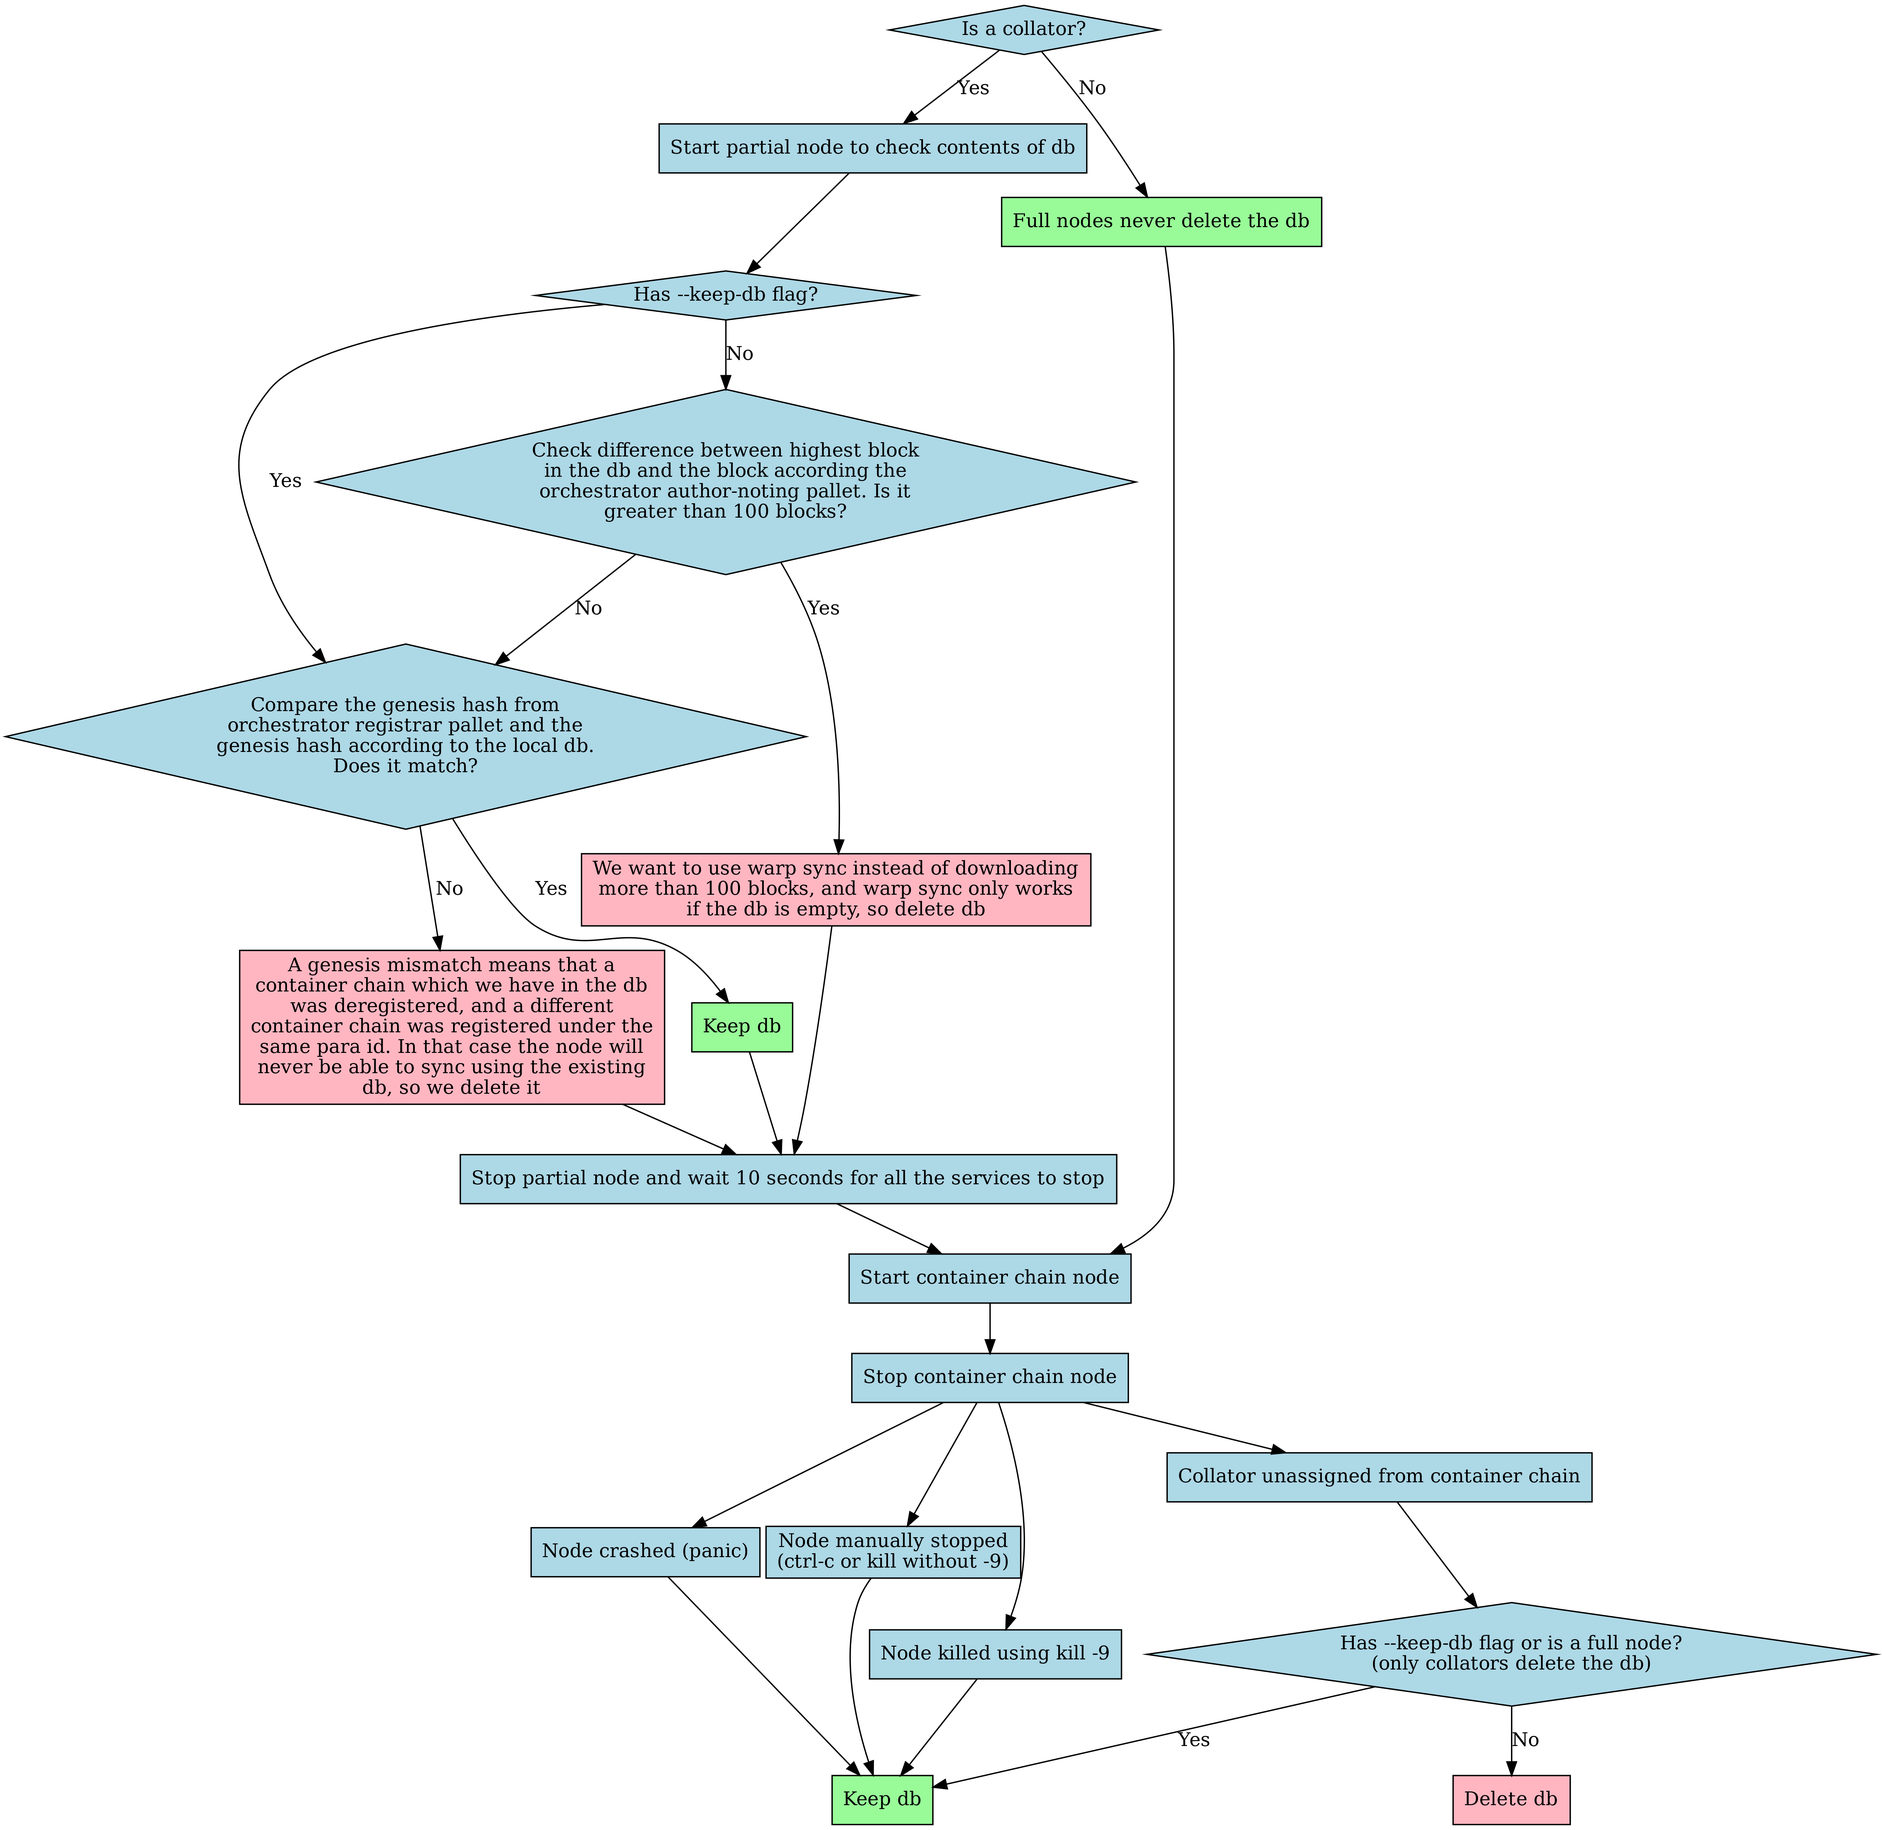
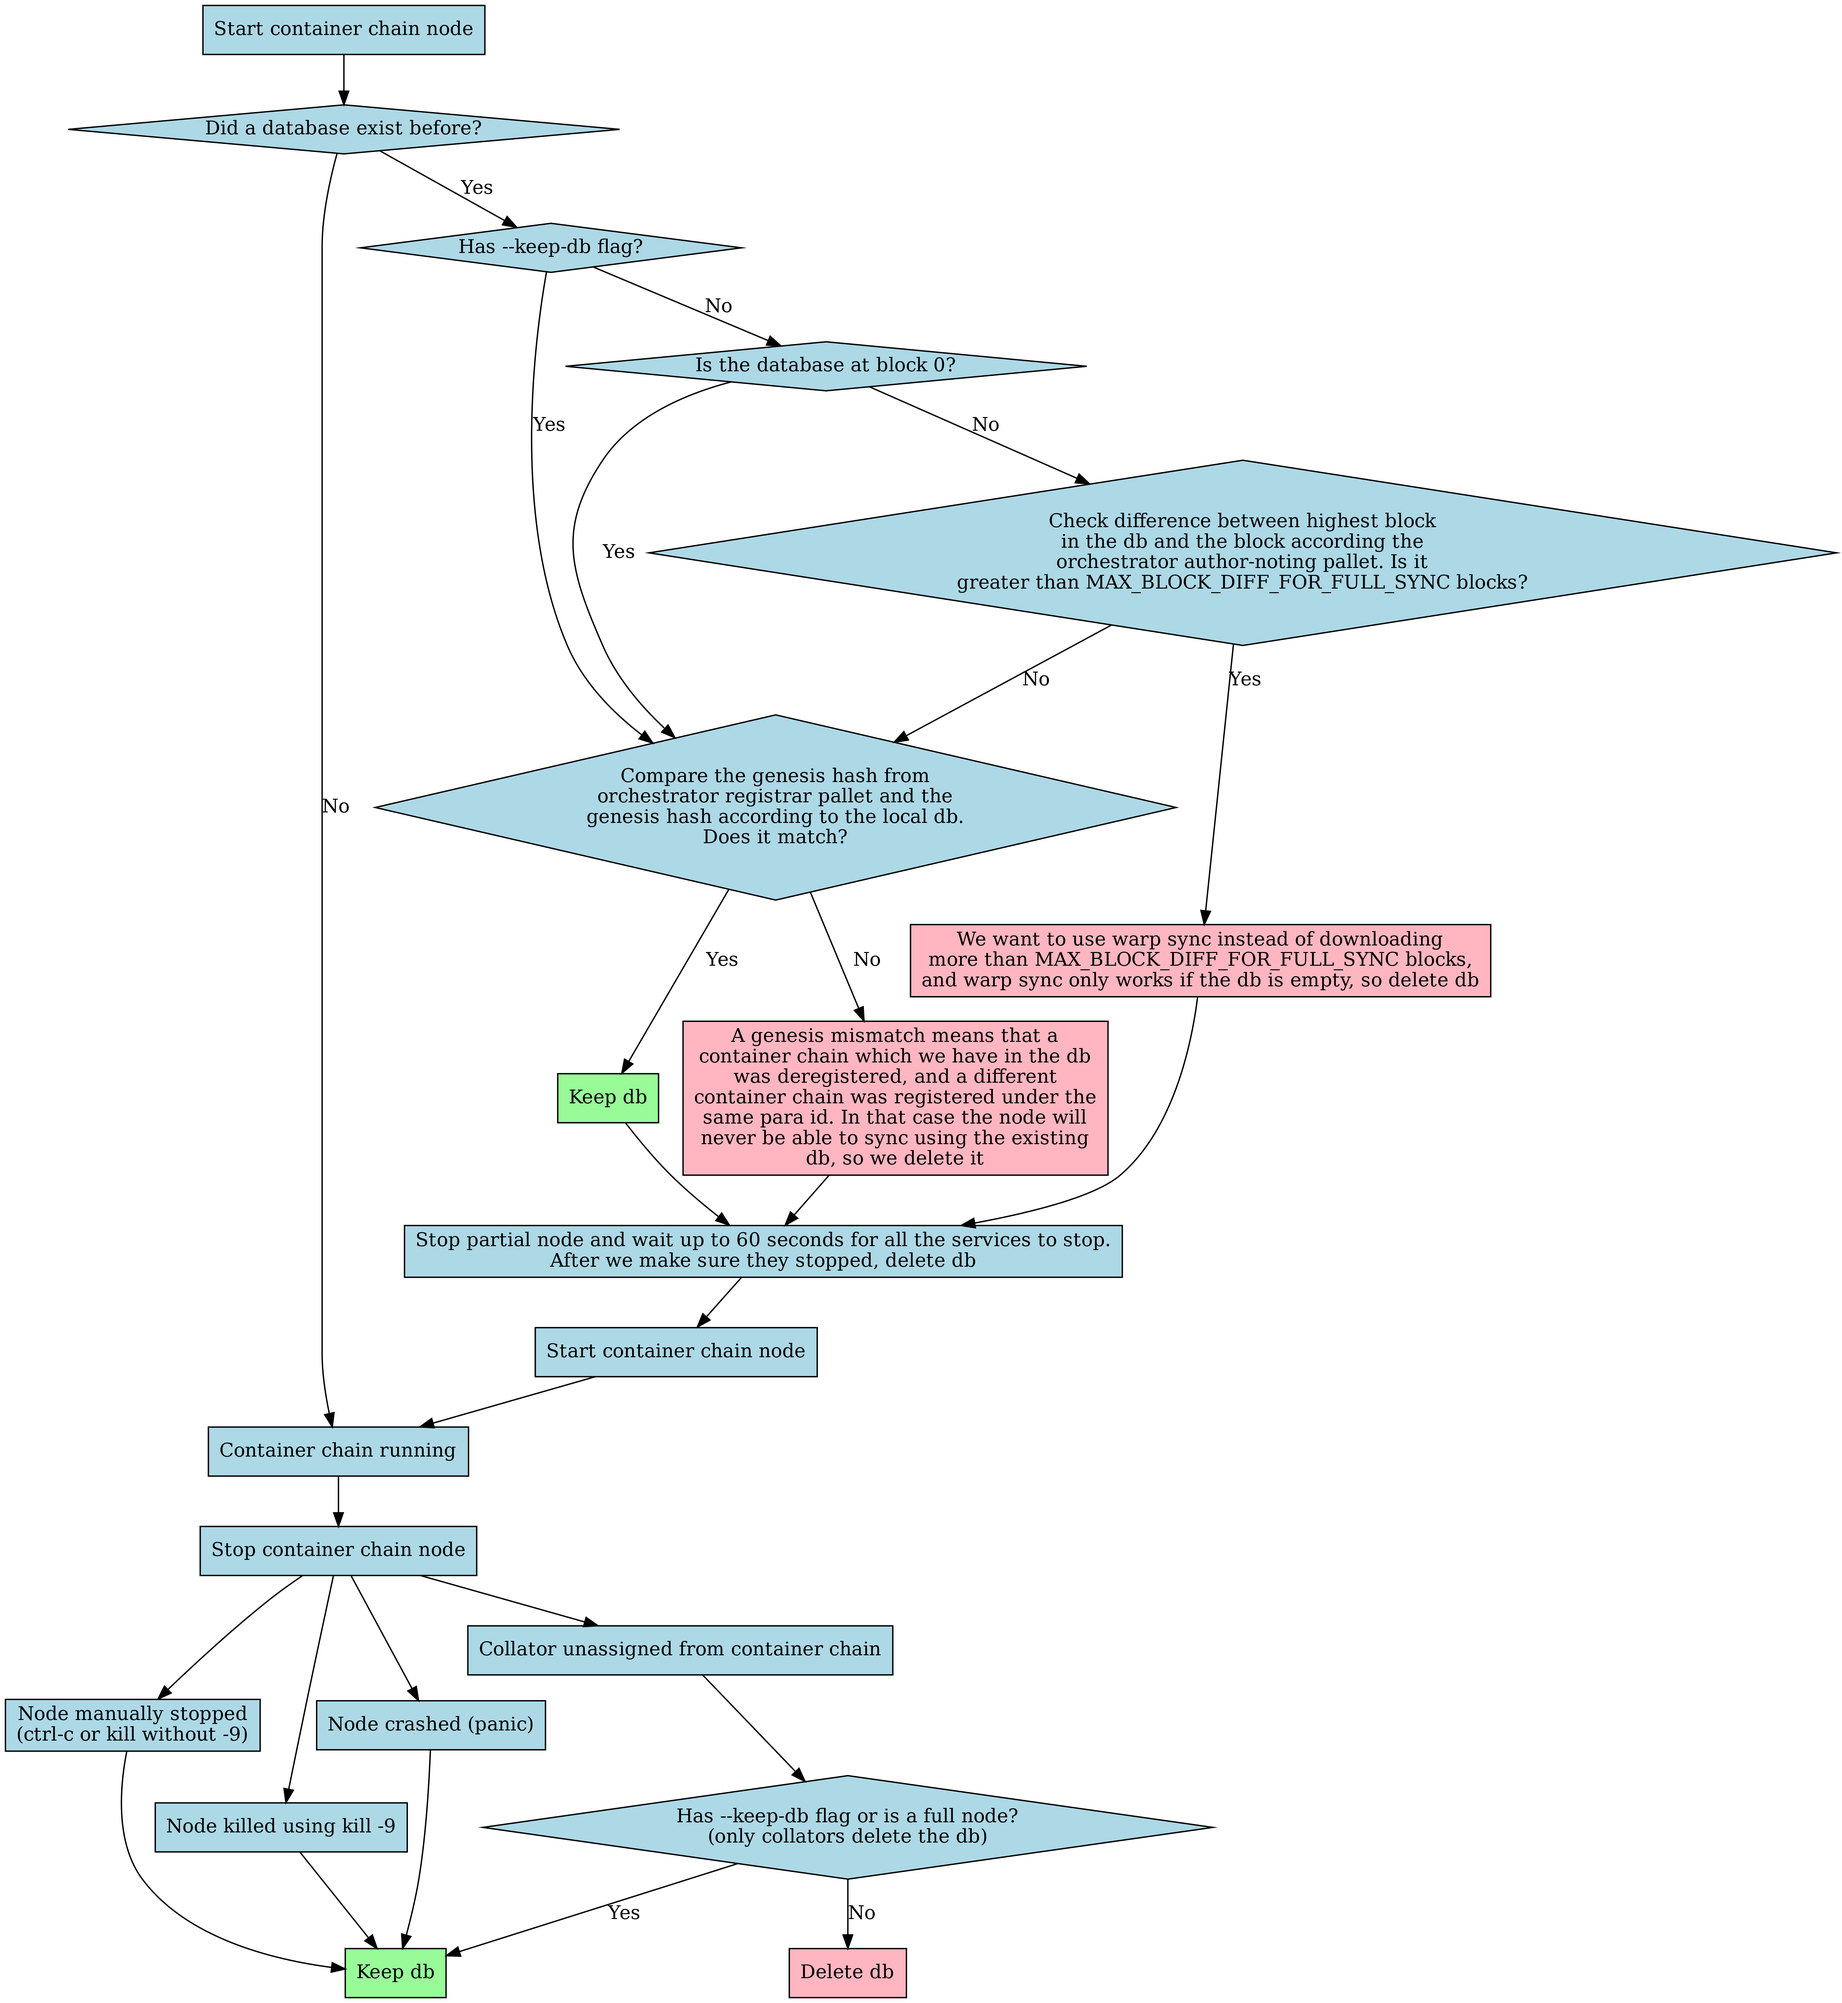
Update keep-db flowchart

diff --git a/node/src/container_chain_spawner.rs b/node/src/container_chain_spawner.rs
@@ -61,6 +61,14 @@ use {
 /// This is the max timeout, if the db is closed in 1 second then that function will only wait 1 second.
 const MAX_DB_RESTART_TIMEOUT: Duration = Duration::from_secs(60);
 
+/// Block diff threshold above which we decide it will be faster to delete the database and
+/// use warp sync, rather than using full sync to download a large number of blocks.
+/// This is only needed because warp sync does not support syncing from a state that is not
+/// genesis, it falls back to full sync in that case.
+/// 30_000 blocks = 50 hours at 6s/block.
+/// Assuming a syncing speed of 100 blocks per second, this will take 5 minutes to sync.
+const MAX_BLOCK_DIFF_FOR_FULL_SYNC: u32 = 30_000;
+
 /// Task that handles spawning a stopping container chains based on assignment.
 /// The main loop is [rx_loop](ContainerChainSpawner::rx_loop).
 pub struct ContainerChainSpawner {
@@ -774,6 +782,9 @@ enum DbRemovalReason {
 
 /// Given a container chain client, check if the database is valid. If not, returns `Some` with the
 /// reason for db removal.
+/// Reasons may be:
+/// * High block diff: when the local db is outdated and it would take a long time to sync using full sync, we remove it to be able to use warp sync.
+/// * Genesis hash mismatch, when the chain was deregistered and a different chain with the same para id was registered.
 fn db_needs_removal(
     container_chain_client: &Arc<ContainerChainClient>,
     orchestrator_client: &Arc<ParachainClient>,
@@ -795,17 +806,10 @@ fn db_needs_removal(
                 .latest_block_number(orchestrator_chain_info.best_hash, container_chain_para_id)
                 .unwrap_or_default();
 
-            // Block diff threshold above which we decide it will be faster to delete the database and
-            // use warp sync, rather than using full sync to download a large number of blocks.
-            // This is only needed because warp sync does not support syncing from a state that is not
-            // genesis, it falls back to full sync in that case.
-            // 30_000 blocks = 50 hours at 6s/block.
-            // Assuming a syncing speed of 100 blocks per second, this will take 5 minutes to sync.
-            let max_block_diff_allowed = 30_000;
             if last_container_block_from_orchestrator
                 .unwrap_or(0)
                 .abs_diff(last_container_block_temp)
-                > max_block_diff_allowed
+                > MAX_BLOCK_DIFF_FOR_FULL_SYNC
             {
                 // if the diff is big, delete db and restart using warp sync
                 return Ok(Some(DbRemovalReason::HighBlockDiff {
